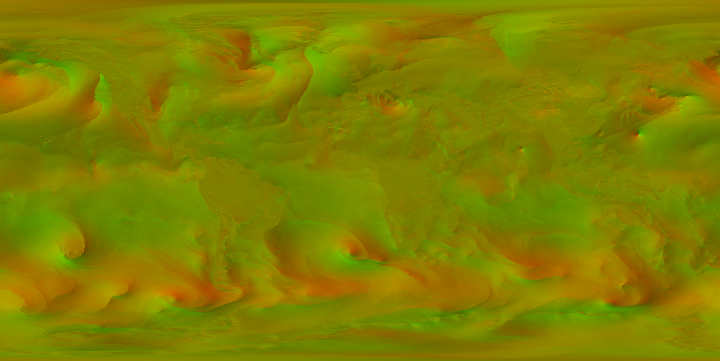
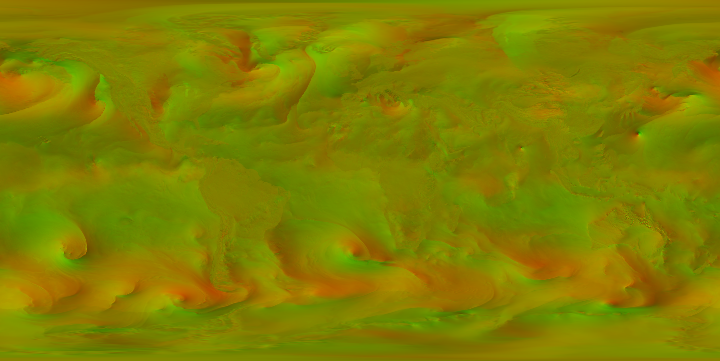
Animate wind with GFS forecast frames when time moves forward
The collector now stores the latest complete GFS run as 6-hourly
frames out to +132 h (data/wind/fNNN.png), downloading only when a new
run appears. The page loads frames lazily and blends the two around the
displayed time, so scrubbing or playing the timeline shows the forecast
wind evolve together with the storm positions and day/night.

Claude-Session: https://claude.ai/code/session_01SnoPdis3Zv2QGphDGZxStv

diff --git a/index.html b/index.html
@@ -329,7 +329,7 @@ a{color:var(--ice)}
     <button class="tc-skip" id="tcSkip" type="button">건너뛰기</button>
     <i class="tc-bar" id="tcBar"></i>
   </div>
-  <div class="toast panel" id="toast" hidden>예보 시각 보기 중 · 바람과 구름은 현재 자료입니다</div>
+  <div class="toast panel" id="toast" hidden>예보 시각 보기 중 · 바람은 GFS 예보, 구름은 현재 위성 영상입니다</div>
   <p class="hint">드래그 회전 · 스크롤 확대 · 태풍을 누르면 소용돌이로 이동</p>
 
   <footer class="timebar panel">
@@ -703,10 +703,10 @@ let stateTex=initTex, sw=0, tw=0;
 
 let windTex=null, windMeta=null;
 const simMat=new THREE.ShaderMaterial({
-  uniforms:{uState:{value:initTex}, uWind:{value:null}, uSeed:{value:0}, uKd:{value:0.0058}, uDt:{value:1}, uDrop:{value:0.004}, uDropBump:{value:0.012}, uWmax:{value:40}, uLocal:{value:0}, uWin:{value:new THREE.Vector4(0,0,1,1)}, uReseed:{value:0}, uVortOn:{value:0}, uDir:{value:1}, uVort:{value:new THREE.Vector4(0,0,5,40)}, uVel:{value:new THREE.Vector2(0,0)}},
+  uniforms:{uState:{value:initTex}, uWind:{value:null}, uWindB:{value:null}, uMix:{value:0}, uSeed:{value:0}, uKd:{value:0.0058}, uDt:{value:1}, uDrop:{value:0.004}, uDropBump:{value:0.012}, uWmax:{value:40}, uLocal:{value:0}, uWin:{value:new THREE.Vector4(0,0,1,1)}, uReseed:{value:0}, uVortOn:{value:0}, uDir:{value:1}, uVort:{value:new THREE.Vector4(0,0,5,40)}, uVel:{value:new THREE.Vector2(0,0)}},
   vertexShader:quadVS,
   fragmentShader:`
-    uniform sampler2D uState, uWind; uniform float uSeed,uKd,uDt,uDrop,uDropBump,uWmax,uLocal,uReseed; uniform vec4 uWin;
+    uniform sampler2D uState, uWind, uWindB; uniform float uMix, uSeed,uKd,uDt,uDrop,uDropBump,uWmax,uLocal,uReseed; uniform vec4 uWin;
     varying vec2 vUv;
     const vec3 RC=vec3(12.9898,78.233,4375.85453);
     float rand(vec2 co){ float t=dot(RC.xy,co); return fract(sin(t)*(RC.z+t)); }
@@ -725,7 +725,7 @@ const simMat=new THREE.ShaderMaterial({
     void main(){
       vec4 c=texture2D(uState,vUv);
       vec2 pos=vec2(c.r/255.0+c.b, c.g/255.0+c.a);
-      vec2 w=(texture2D(uWind,pos).rg*2.0-1.0)*uWmax;
+      vec2 w=(mix(texture2D(uWind,pos).rg,texture2D(uWindB,pos).rg,uMix)*2.0-1.0)*uWmax;
       float core=99.0;
       if(uVortOn>0.5){ vec3 v=vortex(pos); w=w*mix(0.35,1.0,smoothstep(1.5,9.0,v.z))+v.xy; core=v.z; }
       float cl=max(cos((pos.y-0.5)*3.14159265),0.06);
@@ -771,9 +771,9 @@ const linePos=new Float32Array(NPART*6);
 for(let i=0;i<NPART;i++){ linePos[i*6]=i; linePos[i*6+3]=i; linePos[i*6+4]=1; }
 const lineGeo=new THREE.BufferGeometry(); lineGeo.setAttribute('position',new THREE.BufferAttribute(linePos,3));
 const lineMat=new THREE.ShaderMaterial({
-  uniforms:{uPrev:{value:initTex}, uNext:{value:initTex}, uWind:{value:null}, uRes:{value:S}, uWmax:{value:40}, uBright:{value:0.5}, uLocal:{value:0}, uWin:{value:simMat.uniforms.uWin.value}, uVortOn:simMat.uniforms.uVortOn, uDir:simMat.uniforms.uDir, uVort:simMat.uniforms.uVort, uVel:simMat.uniforms.uVel},
+  uniforms:{uPrev:{value:initTex}, uNext:{value:initTex}, uWind:simMat.uniforms.uWind, uWindB:simMat.uniforms.uWindB, uMix:simMat.uniforms.uMix, uRes:{value:S}, uWmax:{value:40}, uBright:{value:0.5}, uLocal:{value:0}, uWin:{value:simMat.uniforms.uWin.value}, uVortOn:simMat.uniforms.uVortOn, uDir:simMat.uniforms.uDir, uVort:simMat.uniforms.uVort, uVel:simMat.uniforms.uVel},
   vertexShader:`
-    uniform sampler2D uPrev,uNext,uWind; uniform float uRes,uWmax,uLocal; uniform vec4 uWin;
+    uniform sampler2D uPrev,uNext,uWind,uWindB; uniform float uMix,uRes,uWmax,uLocal; uniform vec4 uWin;
     varying float vSpeed; varying float vAlpha;
     vec2 toTarget(vec2 p){ return uLocal>0.5 ? vec2(fract(p.x-uWin.x),p.y-uWin.y)/uWin.zw : p; }
     // tour vortex: a moving low that drags nearby particles into a spiral and swallows them at the core
@@ -797,7 +797,7 @@ const lineMat=new THREE.ShaderMaterial({
       float lim=uLocal>0.5?0.06:0.02;
       vAlpha=(dd.x>lim||dd.y>lim)?0.0:1.0;
       vec2 q=(position.y<0.5&&vAlpha>0.5)?qa:qb;
-      vec2 wv=(texture2D(uWind,pb).rg*2.0-1.0)*uWmax;
+      vec2 wv=(mix(texture2D(uWind,pb).rg,texture2D(uWindB,pb).rg,uMix)*2.0-1.0)*uWmax;
       if(uVortOn>0.5){ vec3 v=vortex(pb); wv=wv*mix(0.35,1.0,smoothstep(1.5,9.0,v.z))+v.xy; }
       vSpeed=length(wv);
       gl_Position=vec4(q*2.0-1.0,0.0,1.0);
@@ -884,6 +884,7 @@ function updateWindRegion(){
   lineGeo.setDrawRange(0,(tour?Math.min(NPART,SMALL?18000:50000):localMode?Math.min(NPART,SMALL?16000:42000):NPART)*2);
 }
 function stepWind(dt){
+  updateWindTime(false);
   if(!windTex) return;
   updateWindRegion();
   simMat.uniforms.uState.value=stateTex;
@@ -1638,6 +1639,34 @@ document.getElementById('nowBtn').addEventListener('click',()=>{ setPlay(false);
 /* ---------- live data ---------- */
 let stormStamp='', windStamp='';
 async function getJSON(url){ const r=await fetch(url+'?t='+Date.now(),{cache:'no-store'}); if(!r.ok) throw new Error(r.status); return r.json(); }
+/* GFS forecast frames: load lazily, blend the two around the displayed time */
+let windFrames=[], windShownMs=0;
+function loadWindFrame(f){
+  if(f.tex||f.loading) return;
+  f.loading=true;
+  loader.load(f.url, t=>{
+    t.minFilter=t.magFilter=THREE.LinearFilter; t.generateMipmaps=false;
+    t.wrapS=t.wrapT=THREE.ClampToEdgeWrapping;
+    f.tex=t; f.loading=false; updateWindTime(true);
+  }, undefined, ()=>{ f.loading=false; f.failed=true; });
+}
+function updateWindTime(force){
+  if(!windFrames.length) return;
+  const ms=nowMs+offsetH*3600e3;
+  if(!force&&Math.abs(ms-windShownMs)<60e3) return;
+  windShownMs=ms;
+  let i=0; while(i<windFrames.length-2&&windFrames[i+1].ms<=ms) i++;
+  const a=windFrames[i], b=windFrames[Math.min(i+1,windFrames.length-1)];
+  // keep the bracketing frames and the next ones ready, so playback never waits
+  [a,b,windFrames[i+2],windFrames[i+3]].forEach(f=>{ if(f&&!f.failed) loadWindFrame(f); });
+  let A=a.tex, B=b.tex, t=b.ms>a.ms?Math.min(1,Math.max(0,(ms-a.ms)/(b.ms-a.ms))):0;
+  if(!A&&B){ A=B; t=0; } if(!B&&A){ B=A; t=0; }
+  if(!A){ const any=windFrames.find(f=>f.tex); if(!any) return; A=B=any.tex; t=0; }
+  simMat.uniforms.uWind.value=A; simMat.uniforms.uWindB.value=B; simMat.uniforms.uMix.value=t;
+  windTex=A;
+  const shown=t<0.5?a:b, fc=offsetH>0.5;
+  document.getElementById('tWind').textContent='GFS · '+fmtKst(shown.ms)+(fc?' 예보':' 기준');
+}
 async function refreshData(){
   try{
     const d=await getJSON('data/storms.json');
@@ -1646,15 +1675,14 @@ async function refreshData(){
   }catch(e){ document.getElementById('tStorm').textContent='자료를 불러오지 못함'; }
   try{
     const m=await getJSON('data/wind.json');
-    if(m.valid!==windStamp){
-      loader.load('data/wind.png?v='+encodeURIComponent(m.valid), t=>{
-        t.minFilter=t.magFilter=THREE.LinearFilter; t.generateMipmaps=false;
-        t.wrapS=t.wrapT=THREE.ClampToEdgeWrapping;
-        windTex=t; windMeta=m; windStamp=m.valid;
-        simMat.uniforms.uWind.value=t; lineMat.uniforms.uWind.value=t;
-        simMat.uniforms.uWmax.value=lineMat.uniforms.uWmax.value=m.wmax;
-        document.getElementById('tWind').textContent='GFS · '+fmtKst(Date.parse(m.valid))+' 기준';
-      });
+    const stamp=m.cycle+'|'+m.valid;
+    if(stamp!==windStamp){
+      windStamp=stamp; windMeta=m;
+      simMat.uniforms.uWmax.value=lineMat.uniforms.uWmax.value=m.wmax;
+      windFrames.forEach(f=>{ if(f.tex) f.tex.dispose(); });
+      const list=(m.frames&&m.frames.length)?m.frames:[{file:'wind.png',valid:m.valid}];
+      windFrames=list.map(f=>({url:'data/'+f.file+'?c='+encodeURIComponent(m.cycle||m.valid), ms:Date.parse(f.valid), tex:null, loading:false}));
+      updateWindTime(true);
     }
   }catch(e){ document.getElementById('tWind').textContent='자료를 불러오지 못함'; }
 }

diff --git a/scripts/update_data.py b/scripts/update_data.py
@@ -69,75 +69,131 @@ def write_if_changed(name, obj, stamp_key="updated"):
 
 
 # --------------------------------------------------------------------------- wind
-def fetch_wind(now):
+FRAME_STEP = 6     # hours between forecast wind frames
+FRAME_MAX = 132    # last forecast hour fetched (covers +120 h from "now" even late in a cycle)
+
+
+def gfs_url(cyc, fh):
+    return (
+        "https://nomads.ncep.noaa.gov/cgi-bin/filter_gfs_0p50.pl"
+        f"?dir=%2Fgfs.{cyc:%Y%m%d}%2F{cyc:%H}%2Fatmos"
+        f"&file=gfs.t{cyc:%H}z.pgrb2full.0p50.f{fh:03d}"
+        "&var_UGRD=on&var_VGRD=on&lev_10_m_above_ground=on"
+    )
+
+
+def decode_uv(data):
     import numpy as np
     import eccodes
+    fields = {}
+    with tempfile.NamedTemporaryFile(suffix=".grb2") as tmp:
+        tmp.write(data)
+        tmp.flush()
+        with open(tmp.name, "rb") as f:
+            while True:
+                g = eccodes.codes_grib_new_from_file(f)
+                if g is None:
+                    break
+                try:
+                    name = eccodes.codes_get(g, "shortName")
+                    ni = eccodes.codes_get(g, "Ni")
+                    nj = eccodes.codes_get(g, "Nj")
+                    fields[name] = eccodes.codes_get_values(g).reshape(nj, ni)
+                finally:
+                    eccodes.codes_release(g)
+    if "10u" not in fields or "10v" not in fields:
+        return None
+    u, v = fields["10u"], fields["10v"]
+    ni = u.shape[1]
+    # GRIB rows run 90N -> 90S and columns 0E -> 359.5E; shift so column 0 is 180W,
+    # matching the equirectangular Earth textures (top row = north).
+    return np.roll(u, -ni // 2, axis=1), np.roll(v, -ni // 2, axis=1)
+
+
+def save_uv(u, v, path):
+    import numpy as np
     from PIL import Image
+    enc = lambda a: np.clip(np.rint((a + WMAX) / (2 * WMAX) * 255.0), 0, 255).astype("uint8")
+    rgb = np.dstack([enc(u), enc(v), np.zeros(u.shape, dtype="uint8")])
+    Image.fromarray(rgb, "RGB").save(path, optimize=True)
+
+
+def fetch_wind(now):
+    """Fetch the latest GFS run as a series of frames (every FRAME_STEP h) so the page can
+    animate the wind forward in time. Frames are only re-downloaded when a new run appears."""
+    import numpy as np
+
+    old = None
+    try:
+        with open(os.path.join(OUT, "wind.json"), encoding="utf-8") as f:
+            old = json.load(f)
+    except Exception:
+        pass
 
     cyc0 = now.replace(minute=0, second=0, microsecond=0)
     cyc0 = cyc0.replace(hour=cyc0.hour - cyc0.hour % 6)
     for k in range(5):
         cyc = cyc0 - timedelta(hours=6 * k)
-        lead = (now - cyc).total_seconds() / 3600.0
-        fh = max(0, min(48, int(round(lead / 3.0)) * 3))
-        url = (
-            "https://nomads.ncep.noaa.gov/cgi-bin/filter_gfs_0p50.pl"
-            f"?dir=%2Fgfs.{cyc:%Y%m%d}%2F{cyc:%H}%2Fatmos"
-            f"&file=gfs.t{cyc:%H}z.pgrb2full.0p50.f{fh:03d}"
-            "&var_UGRD=on&var_VGRD=on&lev_10_m_above_ground=on"
-        )
+        # the run is usable once its last needed frame is published
         try:
-            data = get(url, timeout=120, tries=2)
+            probe = get(gfs_url(cyc, FRAME_MAX), timeout=120, tries=2)
         except Exception as e:
-            log("GFS", cyc, fh, "failed:", e)
+            log("GFS", cyc, "probe failed:", e)
             continue
-        if data[:4] != b"GRIB":
-            log("GFS", cyc, fh, "not available yet")
+        if probe[:4] != b"GRIB":
+            log("GFS", cyc, "not complete yet")
             continue
-        fields = {}
-        with tempfile.NamedTemporaryFile(suffix=".grb2") as tmp:
-            tmp.write(data)
-            tmp.flush()
-            with open(tmp.name, "rb") as f:
-                while True:
-                    g = eccodes.codes_grib_new_from_file(f)
-                    if g is None:
-                        break
-                    try:
-                        name = eccodes.codes_get(g, "shortName")
-                        ni = eccodes.codes_get(g, "Ni")
-                        nj = eccodes.codes_get(g, "Nj")
-                        vals = eccodes.codes_get_values(g).reshape(nj, ni)
-                        fields[name] = vals
-                    finally:
-                        eccodes.codes_release(g)
-        if "10u" not in fields or "10v" not in fields:
-            log("GFS", cyc, fh, "missing fields", list(fields))
+        if old and old.get("cycle") == iso(cyc) and old.get("frames") and all(
+            os.path.exists(os.path.join(OUT, fr["file"])) for fr in old["frames"]
+        ):
+            log("GFS", cyc, "already have this run")
+            return old
+        os.makedirs(os.path.join(OUT, "wind"), exist_ok=True)
+        frames, peak = [], 0.0
+        for fh in range(0, FRAME_MAX + 1, FRAME_STEP):
+            data = probe if fh == FRAME_MAX else None
+            if data is None:
+                try:
+                    data = get(gfs_url(cyc, fh), timeout=120, tries=3)
+                except Exception as e:
+                    log("GFS", cyc, fh, "failed:", e)
+                    continue
+                time.sleep(1.0)  # be gentle with NOMADS
+            if data[:4] != b"GRIB":
+                continue
+            uv = decode_uv(data)
+            if uv is None:
+                continue
+            name = f"wind/f{fh:03d}.png"
+            save_uv(uv[0], uv[1], os.path.join(OUT, name))
+            peak = max(peak, float(np.hypot(*uv).max()))
+            frames.append({"file": name, "fh": fh, "valid": iso(cyc + timedelta(hours=fh))})
+        if len(frames) < 3:
+            log("GFS", cyc, "too few frames")
             continue
-        u, v = fields["10u"], fields["10v"]
-        nj, ni = u.shape
-        # GRIB rows run 90N -> 90S and columns 0E -> 359.5E; shift so column 0 is 180W,
-        # matching the equirectangular Earth textures (top row = north).
-        u = np.roll(u, -ni // 2, axis=1)
-        v = np.roll(v, -ni // 2, axis=1)
-        enc = lambda a: np.clip(np.rint((a + WMAX) / (2 * WMAX) * 255.0), 0, 255).astype("uint8")
-        rgb = np.dstack([enc(u), enc(v), np.zeros_like(enc(u))])
-        Image.fromarray(rgb, "RGB").save(os.path.join(OUT, "wind.png"), optimize=True)
-        valid = cyc + timedelta(hours=fh)
-        speed = np.hypot(u, v)
+        # remove frames from older runs
+        keep = {fr["file"] for fr in frames}
+        for fn in os.listdir(os.path.join(OUT, "wind")):
+            if f"wind/{fn}" not in keep:
+                os.remove(os.path.join(OUT, "wind", fn))
+        # wind.png stays as the frame closest to now, for older clients
+        best = min(frames, key=lambda fr: abs((datetime.fromisoformat(fr["valid"].replace("Z", "+00:00")) - now).total_seconds()))
+        with open(os.path.join(OUT, best["file"]), "rb") as a, open(os.path.join(OUT, "wind.png"), "wb") as b:
+            b.write(a.read())
         meta = {
             "source": "NOAA GFS 0.5°, 10 m wind",
             "cycle": iso(cyc),
-            "forecastHour": fh,
-            "valid": iso(valid),
-            "width": int(ni),
-            "height": int(nj),
+            "forecastHour": best["fh"],
+            "valid": best["valid"],
+            "width": 720,
+            "height": 361,
             "wmax": WMAX,
-            "maxSpeed": round(float(speed.max()), 1),
+            "maxSpeed": round(peak, 1),
+            "frames": frames,
             "updated": iso(now),
         }
         write_if_changed("wind.json", meta)
-        log("GFS ok", meta)
+        log("GFS ok", cyc, len(frames), "frames")
         return meta
     raise RuntimeError("no GFS cycle available")
 
